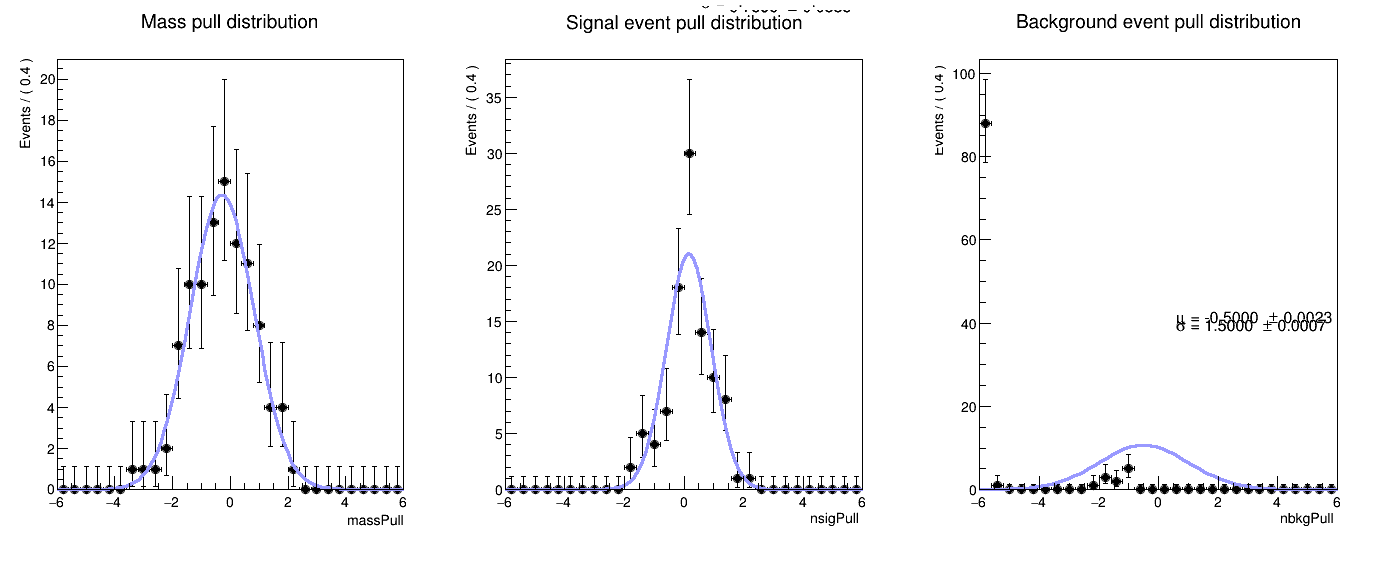
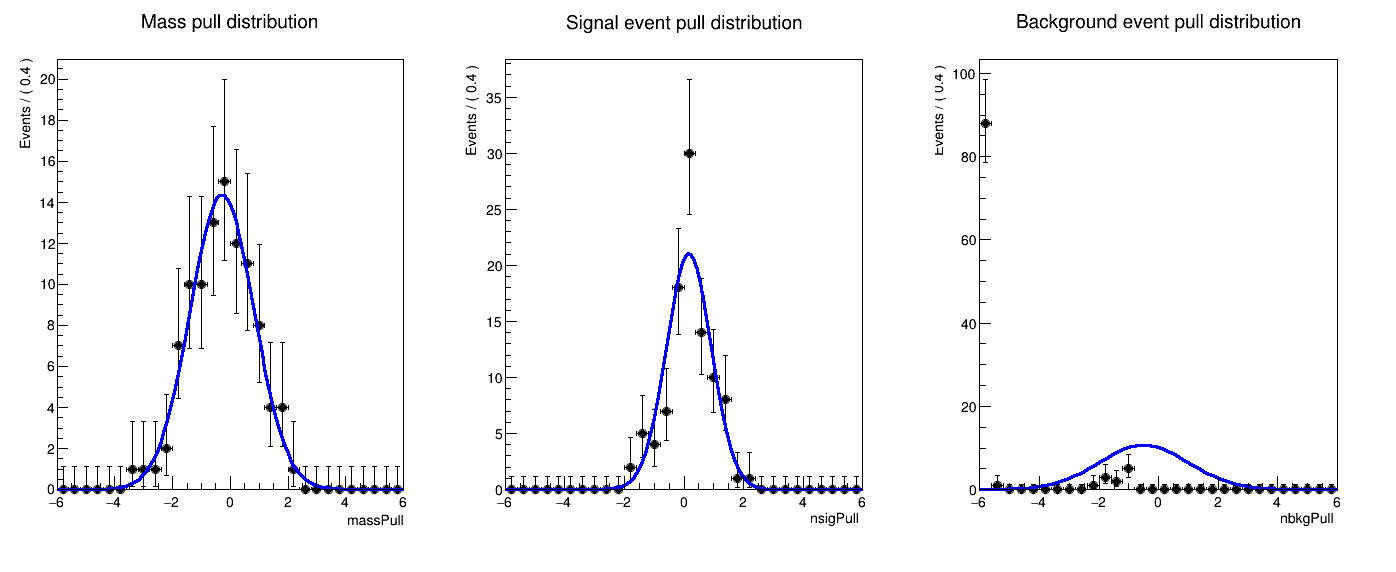
asdas

diff --git a/Codes/Josue/montecarlo.C b/Codes/Josue/montecarlo.C
@@ -115,42 +115,42 @@ void montecarlo(){
     
     RooPlot* mframe2 = massPull.frame(-6, 6, 30);
     mpDset.plotOn(mframe2);
-    massPullGauss.plotOn(mframe2, LineColor(kBlue-9));
+    massPullGauss.plotOn(mframe2, LineColor(kBlue));
     
     mframe2->SetTitle("Mass pull distribution");
     mframe2->Draw();
 
-    auto mtext = new TLatex();
-    mtext->SetTextSize(0.04);
-    mtext->SetTextFont(42);
-    mtext->DrawLatex(0.6, 35,Form("#mu = %1.4f #pm %1.4f", masPullMean.getVal(), masPullMean.getError()));
-    mtext->DrawLatex(0.6, 32,Form("#sigma = %1.4f #pm %1.4f", massPullSigma.getVal(), massPullSigma.getError()));
+    // auto mtext = new TLatex();
+    // mtext->SetTextSize(0.04);
+    // mtext->SetTextFont(42);
+    // mtext->DrawLatex(0.6, 35,Form("#mu = %1.4f #pm %1.4f", masPullMean.getVal(), masPullMean.getError()));
+    // mtext->DrawLatex(0.6, 32,Form("#sigma = %1.4f #pm %1.4f", massPullSigma.getVal(), massPullSigma.getError()));
 
     pad2->cd();
     RooPlot* sframe = nsigPull.frame(-6, 6, 30);
     nsigDset.plotOn(sframe);
-    sigPullGauss.plotOn(sframe, LineColor(kBlue-9));
+    sigPullGauss.plotOn(sframe, LineColor(kBlue));
     sframe->SetTitle("Signal event pull distribution");
     sframe->Draw();
 
-    auto stext = new TLatex();
-    stext->SetTextSize(0.04);
-    stext->SetTextFont(42);
-    stext->DrawLatex(0.6, 45,Form("#mu = %1.4f #pm %1.4f", sigPullMean.getVal(), sigPullMean.getError()));
-    stext->DrawLatex(0.6, 43,Form("#sigma = %1.4f #pm %1.4f", sigPullSigma.getVal(), sigPullSigma.getError()));
+    // auto stext = new TLatex();
+    // stext->SetTextSize(0.04);
+    // stext->SetTextFont(42);
+    // stext->DrawLatex(0.6, 45,Form("#mu = %1.4f #pm %1.4f", sigPullMean.getVal(), sigPullMean.getError()));
+    // stext->DrawLatex(0.6, 43,Form("#sigma = %1.4f #pm %1.4f", sigPullSigma.getVal(), sigPullSigma.getError()));
 
     pad3->cd();
     RooPlot* bframe = nbkgPull.frame(-6, 6, 30);
     nbkgDset.plotOn(bframe);
-    bkgPullGauss.plotOn(bframe, LineColor(kBlue-9));
+    bkgPullGauss.plotOn(bframe, LineColor(kBlue));
     bframe->SetTitle("Background event pull distribution");
     bframe->Draw();
 
-    auto btext = new TLatex();
-    btext->SetTextSize(0.04);
-    btext->SetTextFont(42);
-    btext->DrawLatex(0.6, 40,Form("#mu = %1.4f #pm %1.4f", bkgPullMean.getVal(), bkgPullMean.getError()));
-    btext->DrawLatex(0.6, 38,Form("#sigma = %1.4f #pm %1.4f", bkgPullSigma.getVal(), bkgPullSigma.getError()));
+    // auto btext = new TLatex();
+    // btext->SetTextSize(0.04);
+    // btext->SetTextFont(42);
+    // btext->DrawLatex(0.6, 40,Form("#mu = %1.4f #pm %1.4f", bkgPullMean.getVal(), bkgPullMean.getError()));
+    // btext->DrawLatex(0.6, 38,Form("#sigma = %1.4f #pm %1.4f", bkgPullSigma.getVal(), bkgPullSigma.getError()));
 
 
     c2->Draw();
